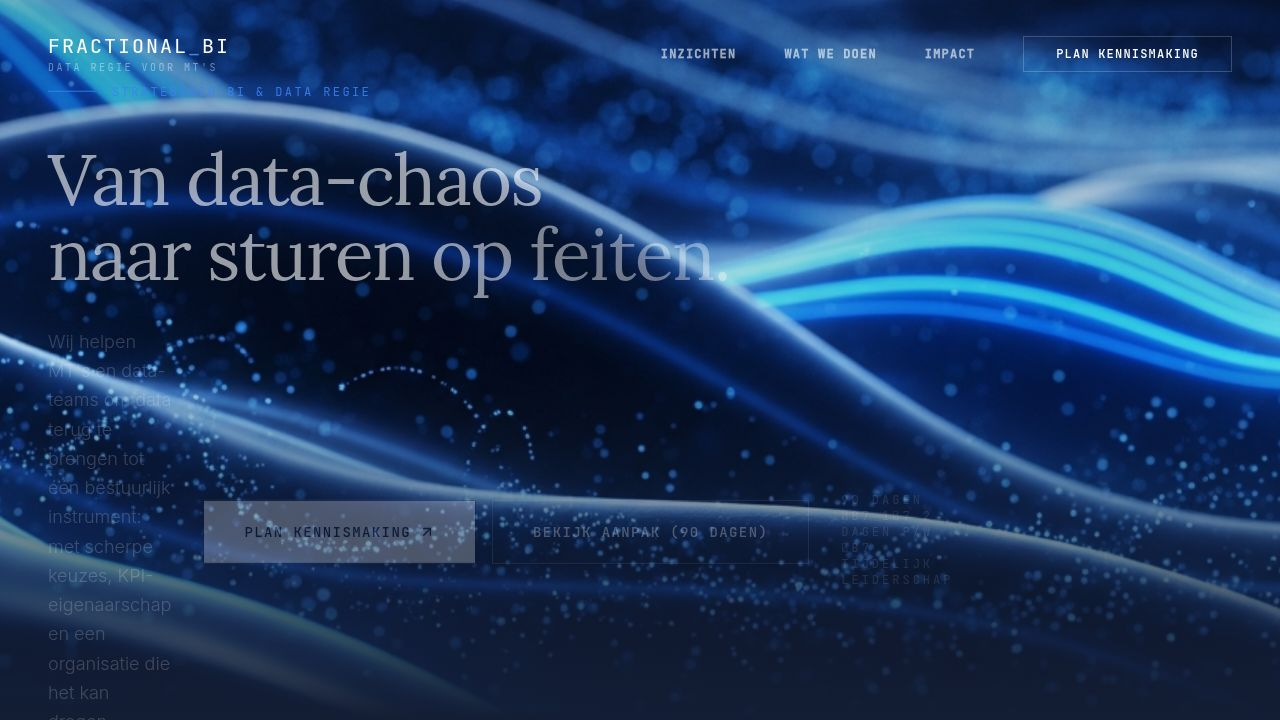
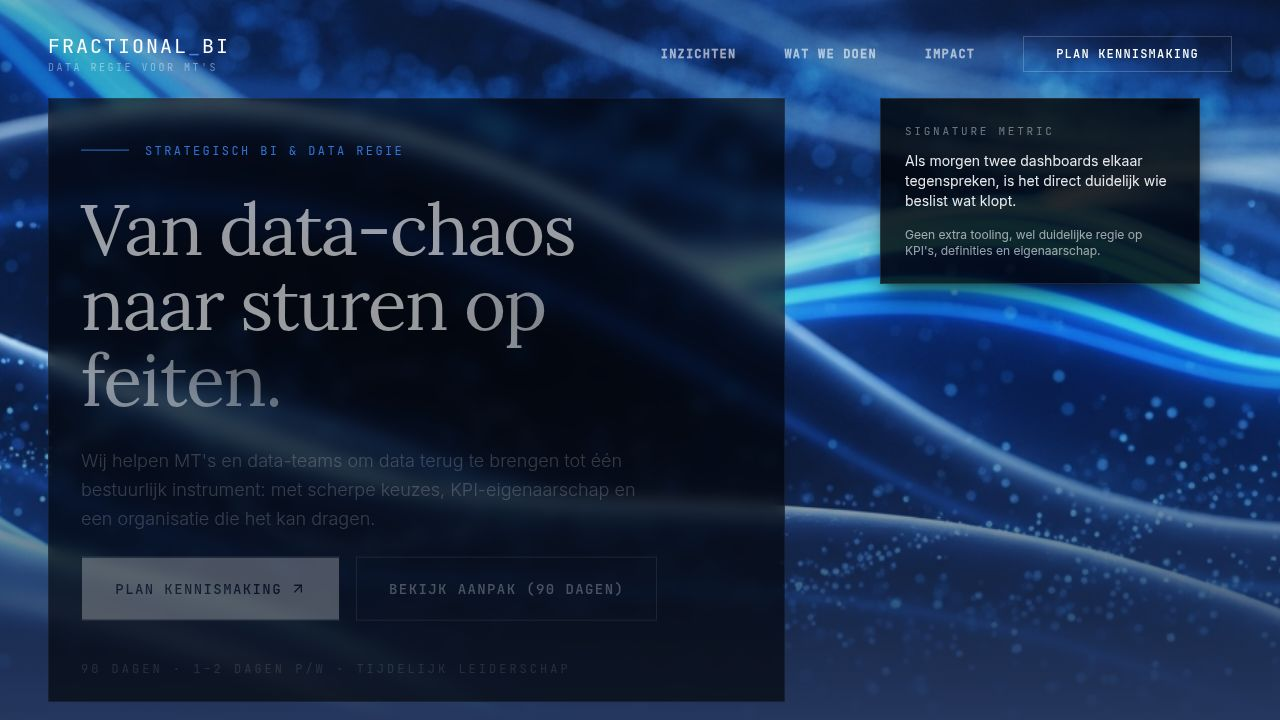
Add trusted companies to the website and remove the hero section's sub-bar
Update the social proof section to display trusted companies and remove the sub-bar below the hero section.

Replit-Commit-Author: Agent
Replit-Commit-Session-Id: 920cdaef-112c-42d7-9c5a-bf232a47e293
Replit-Commit-Checkpoint-Type: full_checkpoint
Replit-Commit-Event-Id: 49b13c50-aea6-4d92-b728-42f83edbda31
Replit-Commit-Screenshot-Url: https://storage.googleapis.com/screenshot-production-us-central1/30cc1b7e-116b-446f-aa49-20f8dd934e49/920cdaef-112c-42d7-9c5a-bf232a47e293/832P5en
Replit-Helium-Checkpoint-Created: true

diff --git a/client/src/pages/home.tsx b/client/src/pages/home.tsx
@@ -146,18 +146,7 @@ export default function Home() {
         </motion.div>
       </section>
 
-      {/* Proof strip - rustiger, enkel één regel */}
-      <section className="py-6 border-t border-white/5 bg-background/60">
-        <div className="container mx-auto px-6 md:px-12 flex flex-col md:flex-row items-center justify-between gap-4">
-          <span className="font-mono text-[11px] uppercase tracking-[0.25em] text-white/40" data-testid="text-proof-kicker">
-            In 90 dagen naar regie
-          </span>
-          <p className="text-sm text-white/70" data-testid="text-proof-line">
-            Eén versie van de waarheid · eigenaarschap per stuur-KPI · vast MT-ritme · minder rapporten, meer besluiten.
-          </p>
-        </div>
-      </section>
-
+      {/* Social proof direct onder hero */}
       <SocialProof />
 
       {/* De regie-vraag */}

diff --git a/client/src/components/social-proof.tsx b/client/src/components/social-proof.tsx
@@ -1,10 +1,10 @@
 import { motion } from "framer-motion";
 
 const clients = [
+  { name: "Erasmus MC", style: "font-serif tracking-wide" },
   { name: "Unilever", style: "font-serif tracking-widest uppercase" },
   { name: "bol.com", style: "font-sans font-black tracking-tighter lowercase text-xl" },
-  { name: "Louwman", style: "font-serif font-bold tracking-wide" },
-  { name: "ErasmusMC", style: "font-mono font-medium tracking-tight uppercase" },
+  { name: "Louwman", style: "font-serif font-bold tracking-wide" }
 ];
 
 export function SocialProof() {
